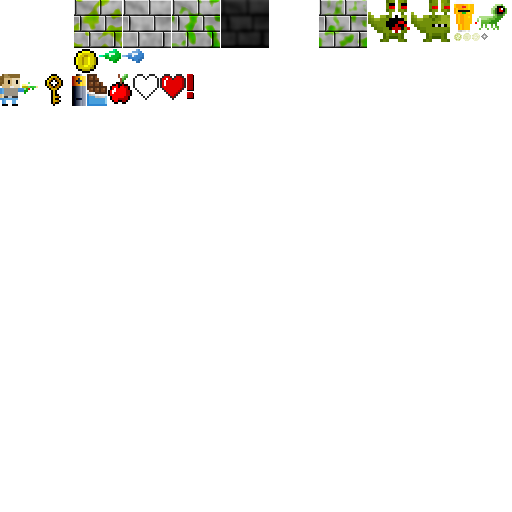
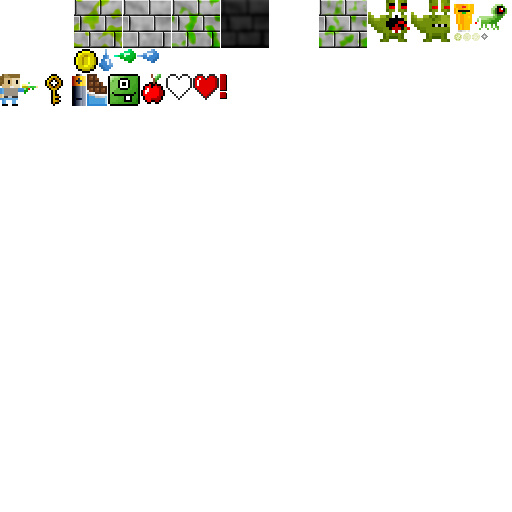
Hud updates.

Changed region(s): [[0.1875, 0.0938, 0.4688, 0.2188]]

diff --git a/src/world/hud.c b/src/world/hud.c
@@ -22,14 +22,22 @@ Foundation, Inc., 59 Temple Place - Suite 330, Boston, MA  02111-1307, USA.
 
 static void drawHealth(void);
 static void drawAmmo(void);
+static void drawCoins(void);
+static void drawMonsterInfo(void);
 
-static AtlasImage *heartFull;
-static AtlasImage *heartEmpty;
+static AtlasImage *heartFullTexture;
+static AtlasImage *heartEmptyTexture;
+static AtlasImage *coinTexture;
+static AtlasImage *waterTexture;
+static AtlasImage *monstersTexture;
 
 void initHud(void)
 {
-	heartFull = getAtlasImage("gfx/hud/heartFull.png", 1);
-	heartEmpty = getAtlasImage("gfx/hud/heartEmpty.png", 1);
+	heartFullTexture = getAtlasImage("gfx/hud/heartFull.png", 1);
+	heartEmptyTexture = getAtlasImage("gfx/hud/heartEmpty.png", 1);
+	coinTexture = getAtlasImage("gfx/entities/coin.png", 1);
+	waterTexture = getAtlasImage("gfx/hud/water.png", 1);
+	monstersTexture = getAtlasImage("gfx/hud/monsters.png", 1);
 }
 
 void drawHud(void)
@@ -39,6 +47,10 @@ void drawHud(void)
 	drawHealth();
 	
 	drawAmmo();
+	
+	drawCoins();
+	
+	drawMonsterInfo();
 }
 
 static void drawHealth(void)
@@ -54,11 +66,11 @@ static void drawHealth(void)
 	{
 		if (w->health > i)
 		{
-			blitAtlasImage(heartFull, x, 8, 0, SDL_FLIP_NONE);
+			blitAtlasImage(heartFullTexture, x, 8, 0, SDL_FLIP_NONE);
 		}
 		else
 		{
-			blitAtlasImage(heartEmpty, x, 8, 0, SDL_FLIP_NONE);
+			blitAtlasImage(heartEmptyTexture, x, 8, 0, SDL_FLIP_NONE);
 		}
 		
 		x += 32;
@@ -70,12 +82,28 @@ static void drawAmmo(void)
 	Walter *w;
 	int width, maxWidth;
 	
+	blitAtlasImage(waterTexture, 400, 8, 0, SDL_FLIP_NONE);
+	
 	w = (Walter*)stage.player->data;
 	
 	maxWidth = MAX(w->maxAmmo * 25, 0);
 	width = MAX(w->ammo * 25, 0);
 	
-	drawRect(400, 12, maxWidth, 16, 0, 200, 255, 128);
-	drawRect(400, 12, width, 16, 0, 200, 255, 255);
-	drawOutlineRect(400, 12, maxWidth, 16, 0, 0, 0, 255);
+	drawRect(432, 12, maxWidth, 16, 0, 200, 255, 128);
+	drawRect(432, 12, width, 16, 0, 200, 255, 255);
+	drawOutlineRect(432, 12, maxWidth, 16, 0, 0, 0, 255);
+}
+
+static void drawCoins(void)
+{
+	blitAtlasImage(coinTexture, 800, 8, 0, SDL_FLIP_NONE);
+	
+	drawText(832, 6, 32, TEXT_LEFT, app.colors.white, "x %03d", game.coins);
+}
+	
+static void drawMonsterInfo(void)
+{
+	blitAtlasImage(monstersTexture, 1100, 4, 0, SDL_FLIP_NONE);
+	
+	drawText(1152, 6, 32, TEXT_LEFT, app.colors.white, "%d / %d", stage.totalMonsters - stage.numMonsters, stage.totalMonsters);
 }

diff --git a/src/entities/coin.c b/src/entities/coin.c
@@ -70,6 +70,9 @@ static void tick(void)
 static void draw(void)
 {
 	int x, y;
+	Item *i;
+	
+	i = (Item*)self->data;
 	
 	x = self->x + (self->w / 2) - stage.camera.x;
 	y = self->y + (self->h / 2) - stage.camera.y;
@@ -82,7 +85,10 @@ static void draw(void)
 	SDL_SetTextureColorMod(sparkleTexture->texture, 255, 255, 255);
 	SDL_SetTextureAlphaMod(sparkleTexture->texture, 255);
 	
-	blitAtlasImage(self->atlasImage, self->x - stage.camera.x, self->y - stage.camera.y, 0, self->facing == FACING_LEFT ? SDL_FLIP_HORIZONTAL : SDL_FLIP_NONE);
+	if (i->health > FPS || (i->health < FPS && i->health % 5 == 0))
+	{
+		blitAtlasImage(self->atlasImage, self->x - stage.camera.x, self->y - stage.camera.y, 0, self->facing == FACING_LEFT ? SDL_FLIP_HORIZONTAL : SDL_FLIP_NONE);
+	}
 }
 
 static void touch(Entity *other)
@@ -94,5 +100,7 @@ static void touch(Entity *other)
 		playPositionalSound(SND_COIN, CH_ITEM, self->x, self->y, stage.player->x, stage.player->y);
 		
 		addCoinParticles(self->x + self->w / 2, self->y + self->h / 2);
+		
+		game.coins++;
 	}
 }

diff --git a/src/world/hud.h b/src/world/hud.h
@@ -24,5 +24,8 @@ extern void blitAtlasImage(AtlasImage *atlasImage, int x, int y, int center, SDL
 extern void drawRect(int x, int y, int w, int h, int r, int g, int b, int a);
 extern void drawOutlineRect(int x, int y, int w, int h, int r, int g, int b, int a);
 extern AtlasImage *getAtlasImage(char *filename, int required);
+extern void drawText(int x, int y, int size, int align, SDL_Color color, const char *format, ...);
 
+extern App app;
+extern Game game;
 extern Stage stage;

diff --git a/src/entities/player.c b/src/entities/player.c
@@ -66,7 +66,7 @@ static void tick(void)
 	
 	w->immuneTimer = MAX(w->immuneTimer - 1, 0);
 	w->reload = MAX(w->reload - 1, 0);
-	w->ammo = MIN(w->ammo + 0.1f, w->maxAmmo);
+	w->ammo = MIN(w->ammo + 0.05f, w->maxAmmo);
 	
 	if (self->alive == ALIVE_ALIVE)
 	{
@@ -99,7 +99,7 @@ static void tick(void)
 			
 			if (w->ammo > 0)
 			{
-				w->ammo -= 2;
+				w->ammo--;
 				
 				/* don't let the player fire too quickly */
 				w->reload = 4;

diff --git a/src/entities/healthItem.c b/src/entities/healthItem.c
@@ -94,7 +94,7 @@ static void draw(void)
 	
 	i = (Item*)self->data;
 	
-	if (i->health > FPS * 2 || (i->health < FPS * 2 && i->health % 5 == 0))
+	if (i->health > FPS || (i->health < FPS && i->health % 5 == 0))
 	{
 		blitAtlasImage(self->atlasImage, self->x - stage.camera.x, self->y - stage.camera.y, 0, self->facing == FACING_LEFT ? SDL_FLIP_HORIZONTAL : SDL_FLIP_NONE);
 	}

diff --git a/src/entities/greenBugEyedMonster.c b/src/entities/greenBugEyedMonster.c
@@ -50,6 +50,8 @@ void initGreenBugEyedMonster(Entity *e)
 	e->die = die;
 	
 	bulletTexture = getAtlasImage("gfx/entities/slimeBullet.png", 1);
+	
+	stage.numMonsters = ++stage.totalMonsters;
 }
 
 static void tick(void)
@@ -261,4 +263,6 @@ static void touch(Entity *other)
 static void die(void)
 {
 	throwCoins(self->x, self->y, 1 + rand() % 2);
+	
+	stage.numMonsters--;
 }

diff --git a/src/structs.h b/src/structs.h
@@ -139,6 +139,7 @@ struct Quadtree {
 typedef struct {
 	int num;
 	int map[MAP_WIDTH][MAP_HEIGHT];
+	int numMonsters, totalMonsters;
 	AtlasImage *tiles[MAX_TILES];
 	Entity entityHead, *entityTail;
 	Entity *player;
@@ -155,6 +156,7 @@ typedef struct {
 } Stage;
 
 typedef struct {
+	unsigned int coins;
 	unsigned int stats[STAT_MAX];
 } Game;
 

diff --git a/src/entities/greenHorse.c b/src/entities/greenHorse.c
@@ -44,6 +44,8 @@ void initGreenHorse(Entity *e)
 	e->touch = touch;
 	e->damage = damage;
 	e->die = die;
+	
+	stage.numMonsters = ++stage.totalMonsters;
 }
 
 static void tick(void)
@@ -120,4 +122,6 @@ static void die(void)
 	{
 		spawnRandomHealthItem(self->x, self->y);
 	}
+	
+	stage.numMonsters--;
 }

diff --git a/src/entities/coin.h b/src/entities/coin.h
@@ -26,4 +26,5 @@ extern AtlasImage *getAtlasImage(char *filename, int required);
 extern void playPositionalSound(int snd, int ch, int srcX, int srcY, int destX, int destY);
 
 extern Entity *self;
+extern Game game;
 extern Stage stage;
